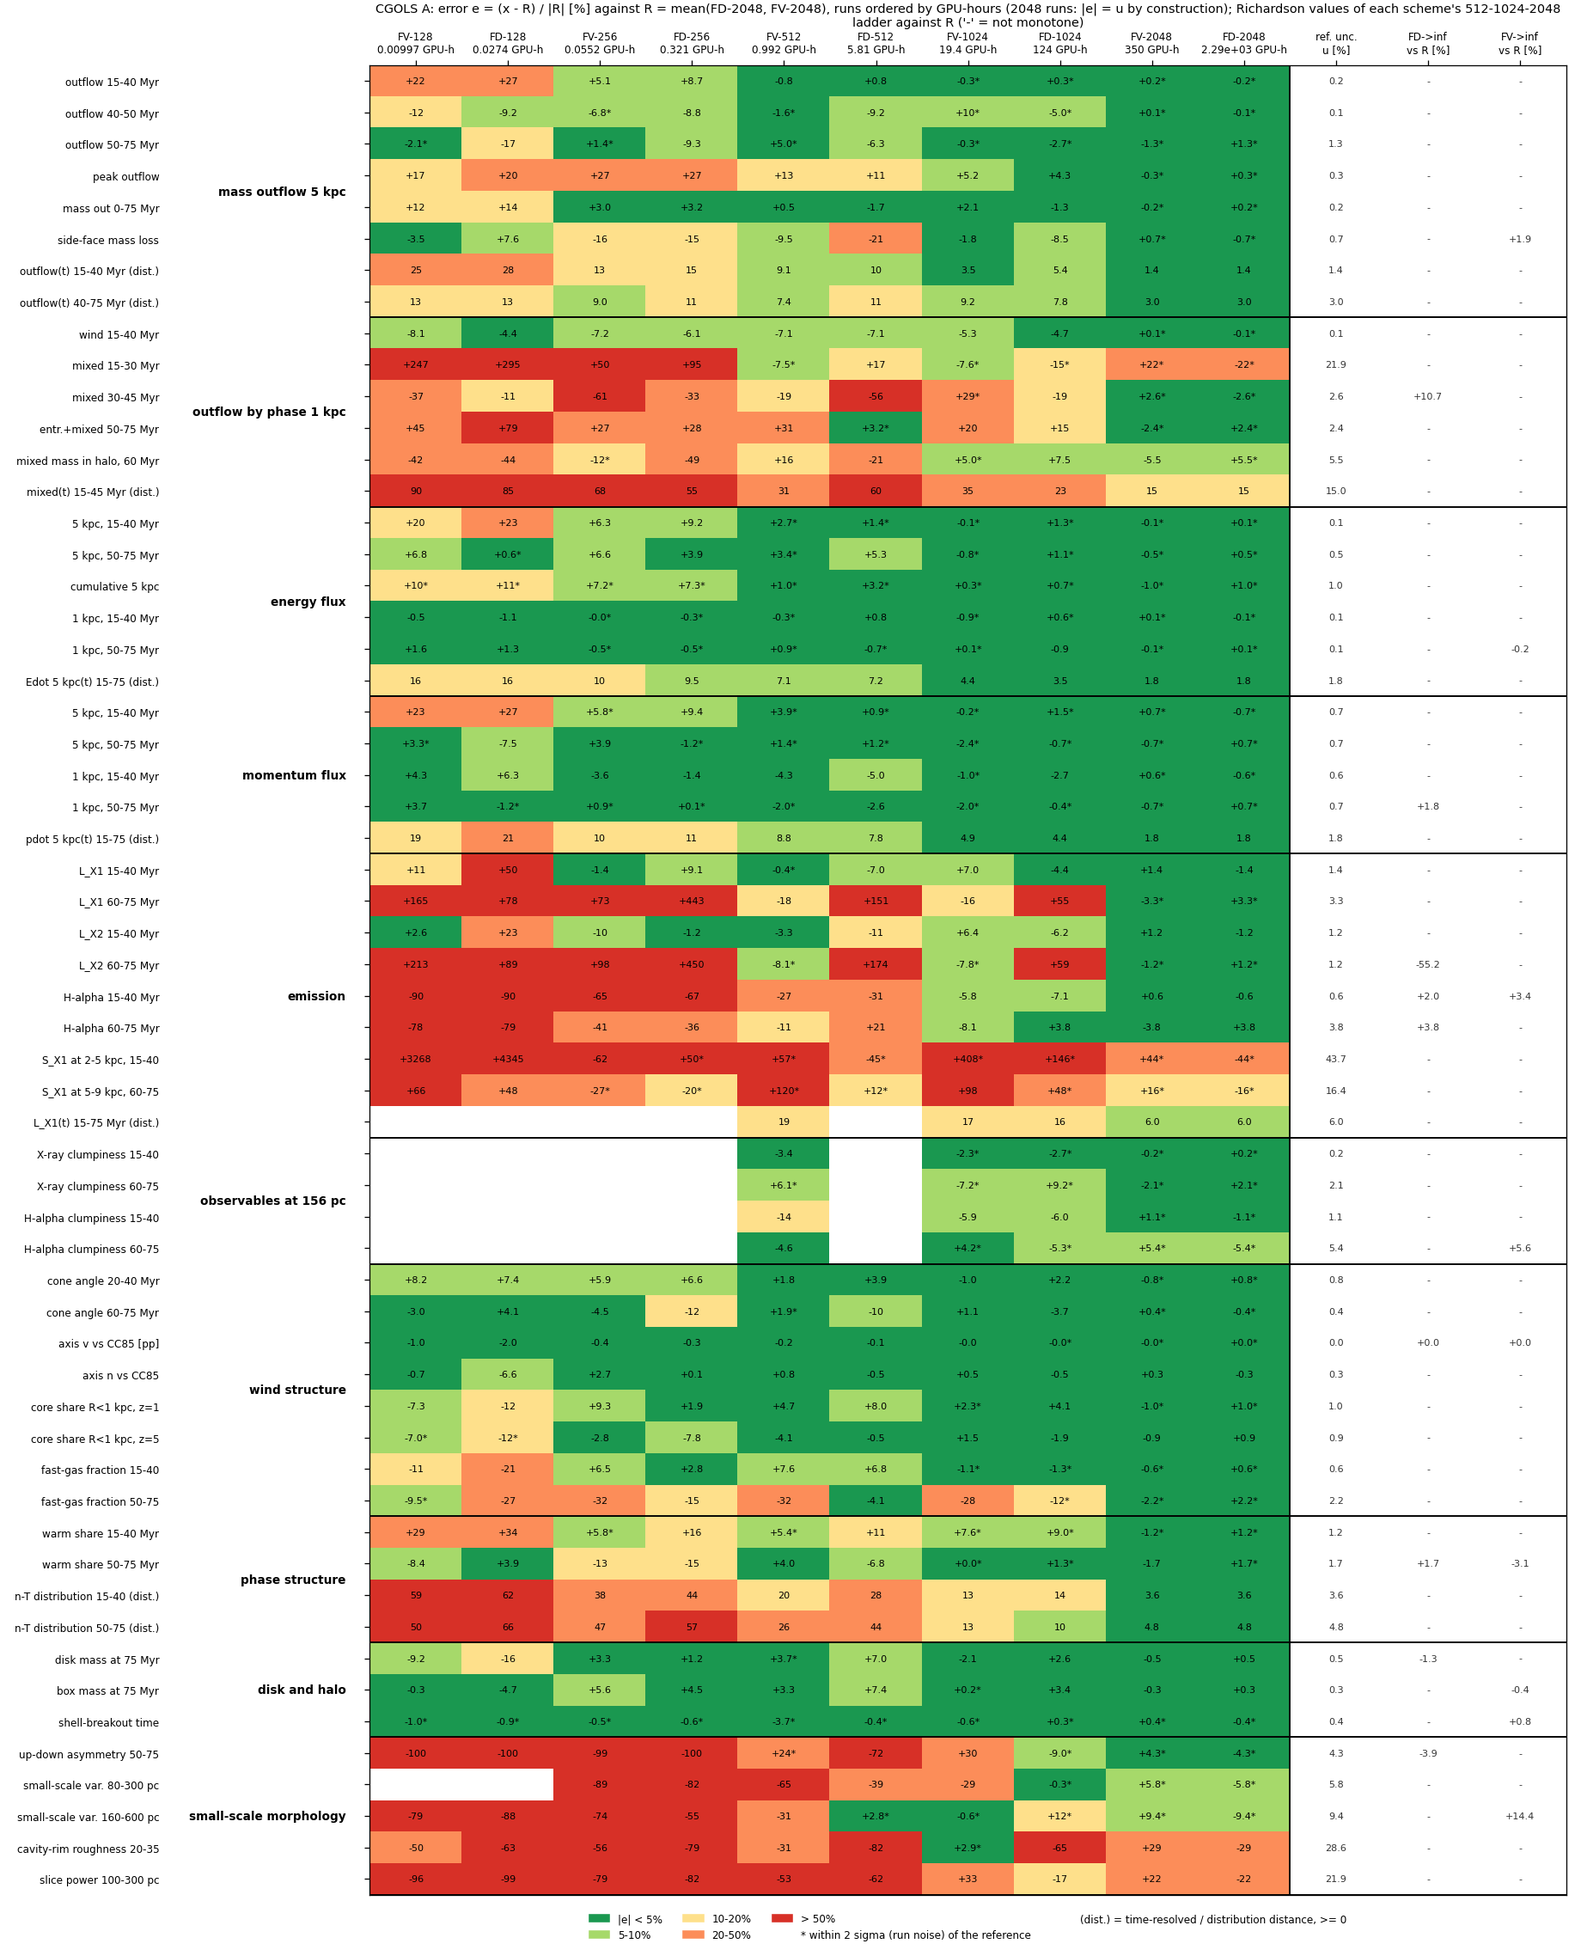
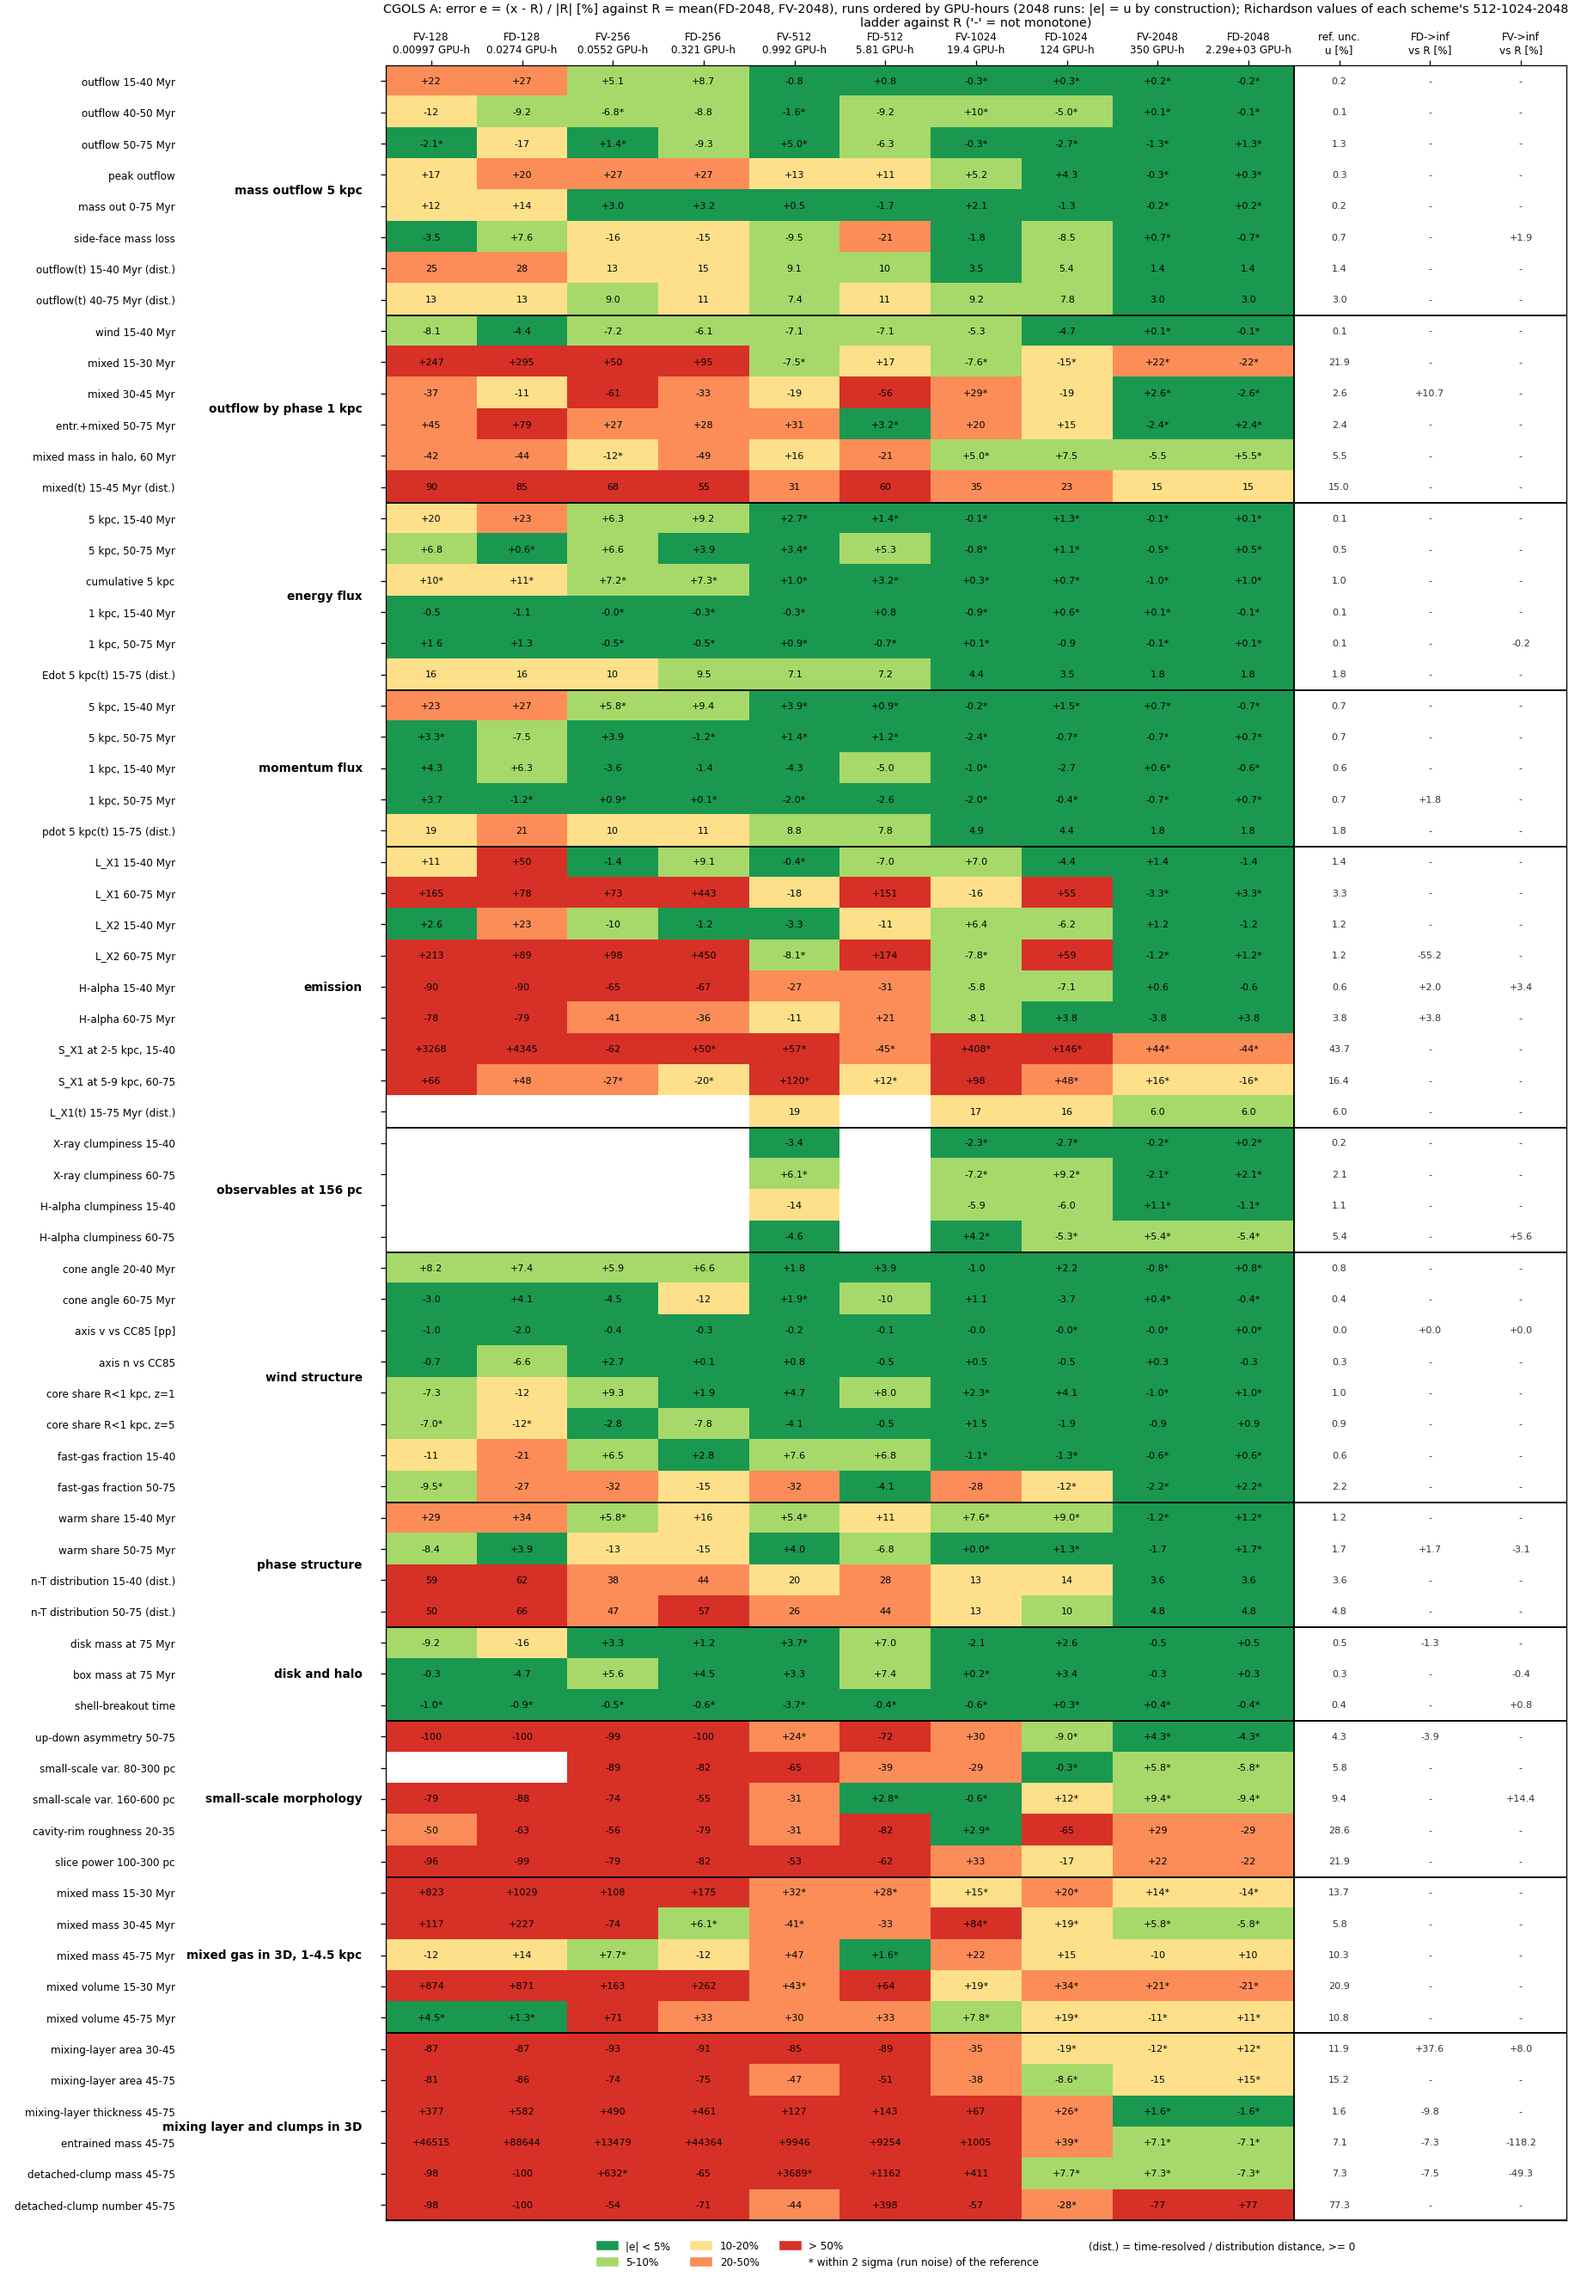
cgols_cost_accuracy: 3D structure families from the structure3d caches
Two new families, window means of the cgols_structure_3d caches (1 < |z| < 4.5 kpc, 2.5 Myr cadence):
'mixed gas in 3D' (mixed mass 15-30/30-45/45-75, mixed volume 15-30/45-75) and 'mixing layer and
clumps in 3D' (log K = 6.8 area 30-45/45-75, thickness V/A 45-75, entrained mass, detached-clump mass
and number 45-75). FV-1024 = A1024fvr (bit-identical rerun with all checkpoints) + seeds s2/s3.
Families figure: errors above the axis are drawn as up-arrows at its top; undecidable note moved to
the lower right.

diff --git a/pytests/self_gravity/cgols/cgols_cost_accuracy.py b/pytests/self_gravity/cgols/cgols_cost_accuracy.py
@@ -35,6 +35,10 @@ means at each run's own snapshot cadence, frame slices and maps, emission profil
   disk and halo            disk mass and box mass at 75 Myr, shell-breakout time
   small-scale morphology   up-down asymmetry, small-scale density variance, cavity-rim roughness, slice power at
                            100-300 pc
+  mixed gas in 3D          mass and volume of the mixed gas (5.5 < log K < 6.8) in 1 < |z| < 4.5 kpc
+  mixing layer and clumps  log K = 6.8 isosurface area, mixed-layer thickness V/A, entrained gas (log K < 5.5):
+                           total mass, mass and number of clumps detached from the disk
+  (both from cgols_structure_3d caches data/studies/structure3d_v2<TAG>.npz, 2.5 Myr checkpoint cadence)
 
 Scale-by-scale convergence (cost_accuracy_spectra.png): the 30-45 Myr power spectrum of log n in the xz slice
 (0.5 < |z| < 4.5 kpc) of every base run divided by the same scheme at twice the resolution and by the 2048
@@ -82,7 +86,8 @@ NS = (128, 256, 512, 1024, 2048)
 SPEC_TOL = 0.2
 
 #: family -> [(key, label)]. Keys: synthesis METRICS, extra scalars (x:<key>), time-resolved (ts:<series>:a:b),
-#: histogram distance (tv:<window>), rim roughness (rim_20_35), slice power (pow_100_300)
+#: histogram distance (tv:<window>), rim roughness (rim_20_35), slice power (pow_100_300),
+#: 3D structure window means from cgols_structure_3d caches (s3:<scalar>:a:b, scalars of cgols_structure_3d_plots)
 FAMILIES = {
     "mass outflow 5 kpc": [
         ("out5_15_40", "outflow 15-40 Myr"), ("out5_40_50", "outflow 40-50 Myr"),
@@ -124,7 +129,18 @@ FAMILIES = {
         ("asym_50_75", "up-down asymmetry 50-75"), ("ssv256", "small-scale var. 80-300 pc"),
         ("ssv128", "small-scale var. 160-600 pc"), ("rim_20_35", "cavity-rim roughness 20-35"),
         ("pow_100_300", "slice power 100-300 pc")],
+    "mixed gas in 3D, 1-4.5 kpc": [
+        ("s3:mass_mixed:15:30", "mixed mass 15-30 Myr"), ("s3:mass_mixed:30:45", "mixed mass 30-45 Myr"),
+        ("s3:mass_mixed:45:75", "mixed mass 45-75 Myr"), ("s3:vol_mixed:15:30", "mixed volume 15-30 Myr"),
+        ("s3:vol_mixed:45:75", "mixed volume 45-75 Myr")],
+    "mixing layer and clumps in 3D": [
+        ("s3:area_wind:30:45", "mixing-layer area 30-45"), ("s3:area_wind:45:75", "mixing-layer area 45-75"),
+        ("s3:thickness:45:75", "mixing-layer thickness 45-75"), ("s3:mass_ent:45:75", "entrained mass 45-75"),
+        ("s3:mass_det:45:75", "detached-clump mass 45-75"), ("s3:n_det:45:75", "detached-clump number 45-75")],
 }
+#: structure3d cache tag per synthesis label where it differs from the label's frame tag (FV1024 = the
+#: bit-identical rerun A1024fvr, the original kept only 4 checkpoints)
+S3_TAG = {"FV1024": "_A1024fvr"}
 #: relative seed scatter borrowed from these synthesis frame metrics when nothing is measured
 BORROW_EARLY, BORROW_LATE = "out5_15_40", "out5_50_75"
 RIM_WINDOW = (20, 35)
@@ -139,6 +155,8 @@ def window_of(key):
     """(start, end) Myr of a key, for picking the borrowed scatter."""
     if key == "pow_100_300":
         return 30.0, 45.0
+    if key.startswith("s3:"):
+        return float(key.split(":")[2]), float(key.split(":")[3])
     parts = key.replace("x:", "").split("_")
     try:
         return float(parts[-2]), float(parts[-1])
@@ -201,6 +219,28 @@ def rim_values(runs):
     return out
 
 
+def structure_values(runs, key):
+    """{label: (window mean, time-sampling standard error)} of a structure3d scalar (s3:<name>:a:b)."""
+    import cgols_structure_3d_plots as s3p
+
+    _p, name, a, b = key.split(":")
+    out = {}
+    for label, spec in runs.items():
+        if spec[2] not in ("base", "ens"):
+            continue
+        tag = S3_TAG.get(label, spec[4])
+        recs, version = s3p.load(tag) if tag else (None, None)
+        if not recs:
+            continue
+        member = {"tag": tag, "recs": recs, "version": version}
+        sel = s3p.window_records(member, (float(a), float(b)))
+        if sel is None or (name in s3p.V2_ONLY and version != "v2"):
+            continue
+        y = np.array([s3p.SCALARS[name][1](r) for r in sel])
+        out[label] = (float(y.mean()), float(y.std(ddof=1) / np.sqrt(len(y))) if len(y) > 1 else None)
+    return out
+
+
 def band_power(ex):
     spec = ex.get("spectrum")
     if spec is None:
@@ -226,6 +266,8 @@ def collect():
                 continue
             if key == "rim_20_35":
                 values = rim_values(runs)
+            elif key.startswith("s3:"):
+                values = structure_values(runs, key)
             elif key == "pow_100_300":
                 values = {lab: band_power(e) for lab, e in ex.items()}
                 values = {k: v for k, v in values.items() if v}
@@ -481,6 +523,10 @@ def fig_grid(result):
     print(f"wrote {path}")
 
 
+#: families figure: y-axis top [%]; larger errors are drawn as up-arrows at FAM_YTOP
+FAM_YMAX, FAM_YTOP = 800.0, 600.0
+
+
 def fig_families(result, tols):
     fams = [f for f in FAMILIES if any(r["family"] == f for r in result.values())]
     ncol = 5
@@ -504,20 +550,26 @@ def fig_families(result, tols):
                 continue
             x, worst, med, ns = map(np.array, zip(*pts))
             color, marker, ls = styles[scheme]
+            # errors beyond the axis are drawn at its top edge as up-arrows
+            off_w, off_m = worst > FAM_YMAX, med > FAM_YMAX
+            worst, med = np.minimum(worst, FAM_YTOP), np.minimum(med, FAM_YTOP)
             ax.plot(x, worst, ls=ls, marker=marker, color=color, label=f"{scheme}: worst quantity")
             ax.plot(x, med, ls=ls, marker=marker, color=color, alpha=0.35, ms=4, label=f"{scheme}: median")
+            ax.plot(x[off_w], worst[off_w], ls="none", marker="^", ms=9, color=color)
+            ax.plot(x[off_m], med[off_m], ls="none", marker="^", ms=6, color=color, alpha=0.35)
             for xi, yi, n in zip(x, worst, ns):
-                ax.annotate(f"{int(n)}", (xi, yi), textcoords="offset points", xytext=(4, 4), fontsize=7, color=color)
+                ax.annotate(f"{int(n)}", (xi, yi), textcoords="offset points", xytext=(4, -10 if yi >= FAM_YTOP else 4),
+                            fontsize=7, color=color)
         u = max([r["u"] for r in rows] or [0.1])
         ax.axhspan(0.1, max(u, 0.1), color="0.85", zorder=0, label="reference uncertainty (max u)")
         if nund:
-            ax.text(0.02, 0.97, f"{nund} of {len(allrows)} quantities undecidable (u >= {tmax:g}%), not shown",
-                    transform=ax.transAxes, fontsize=7, va="top", color="0.3")
+            ax.text(0.98, 0.03, f"{nund} of {len(allrows)} quantities undecidable (u >= {tmax:g}%), not shown",
+                    transform=ax.transAxes, fontsize=7, va="bottom", ha="right", color="0.3")
         for cell in (("FD", REF_N), ("FV", REF_N)):
             ax.axvline(syn.GPU_HOURS[cell], color=styles[cell[0]][0], lw=0.8, ls=":")
         for tol in tols:
             ax.axhline(tol, color="0.4", lw=0.7, ls="-.")
-        ax.set(xscale="log", yscale="log", ylim=(0.3, 800))
+        ax.set(xscale="log", yscale="log", ylim=(0.3, FAM_YMAX))
         ax.set_title(family, fontsize=10)
         ax.grid(alpha=0.3, which="both")
     for ax in axes.flat[len(fams):]:
@@ -528,7 +580,8 @@ def fig_families(result, tols):
         ax.set_ylabel("|error| vs 2048 reference [%]")
     axes.flat[0].legend(fontsize=6.5, loc="lower left")
     fig.suptitle("CGOLS A: worst and median error per quantity family against cost; dotted verticals: cost of "
-                 "FD-2048 (blue) / FV-2048 (red); dash-dot: tolerances " + ", ".join(f"{t:g}%" for t in tols))
+                 "FD-2048 (blue) / FV-2048 (red); dash-dot: tolerances " + ", ".join(f"{t:g}%" for t in tols)
+                 + f"; up-arrows: error > {FAM_YMAX:g}%")
     fig.tight_layout()
     path = os.path.join(FIG_DIR, "cost_accuracy_families.png")
     fig.savefig(path, dpi=115)
